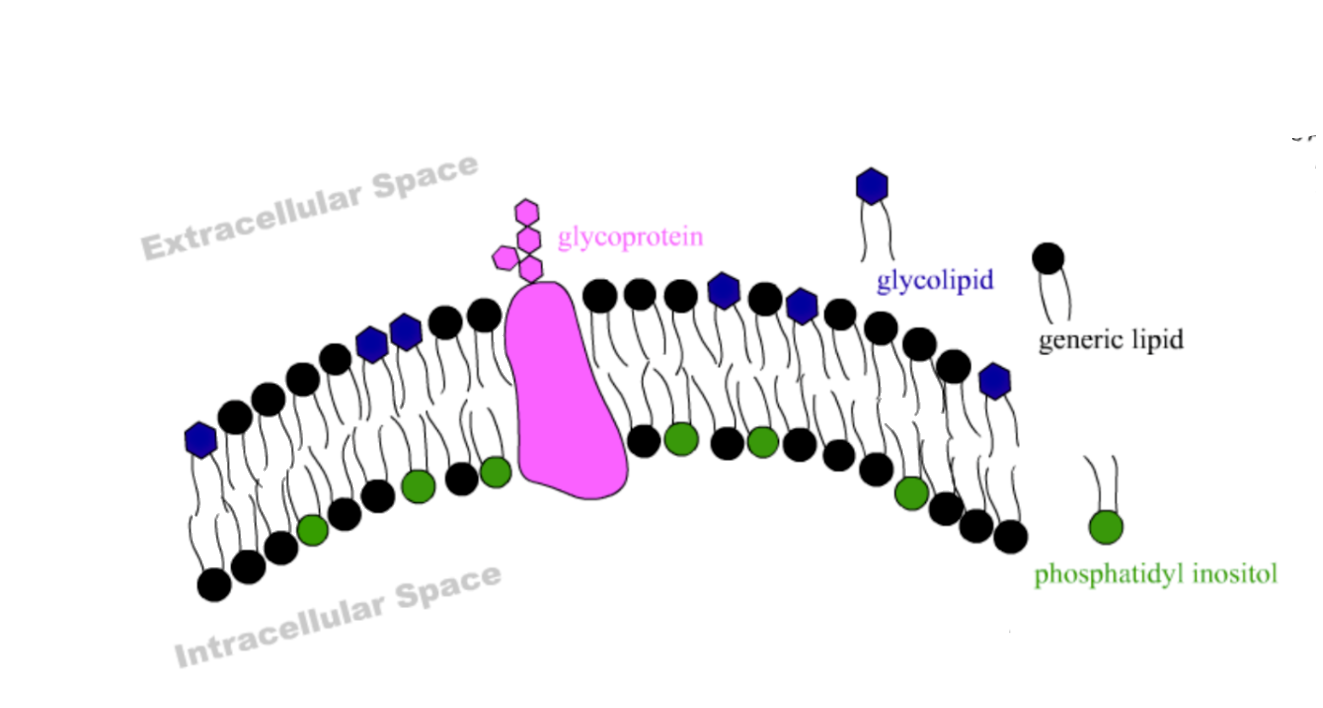
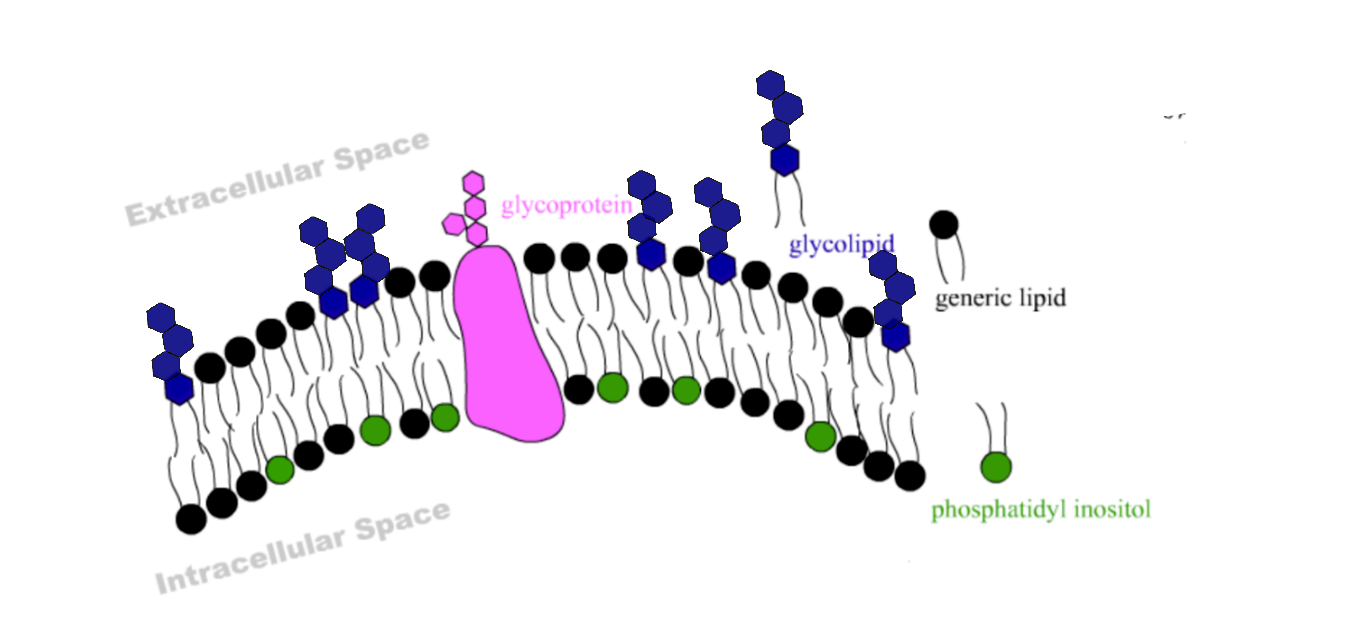
work on membranefluidity2

Changed region(s): [[0.093, 0.0892, 0.9607, 0.9515], [0.8057, 0.6541, 0.8677, 0.6839]]

diff --git a/website/src/membranelipids/membranefluidity2.js b/website/src/membranelipids/membranefluidity2.js
@@ -1,3 +1,130 @@
+import * as React from "react";
+import { Slider } from "@mui/material";
+
 export function MembraneLipidsMembraneFluidity2() {
-    return <p>placeholder</p>;
+  const [tempValue, setTempValue] = React.useState(0);
+  const [tailValue, setTailValue] = React.useState(0);
+  const [unsaturationValue, setUnsaturationValue] = React.useState(0);
+  const [outputValue, setOutputValue] = React.useState(0);
+
+  const handleTempChange = (event, newValue) => {
+    setTempValue(newValue);
+    setOutputValue((newValue - tailValue + unsaturationValue) / 3);
+  };
+
+  const handleTailChange = (event, newValue) => {
+    setTailValue(newValue);
+    setOutputValue((tempValue - newValue + unsaturationValue) / 3);
+  };
+
+  const handleUnsaturationChange = (event, newValue) => {
+    setUnsaturationValue(newValue);
+    setOutputValue((tempValue - tailValue + newValue) / 3);
+  };
+
+  function valuetext(value) {
+    return `${value}°C`;
+  }
+
+  return (
+    <div>
+      <div style={{ maxWidth: "200px" }}>
+        <div style={{ display: "flex", justifyContent: "center" }}>
+          <h2>Fluidity-O-Meter</h2>
+        </div>
+        <Slider
+          aria-label="Fluidity-O-Meter"
+          value={outputValue}
+          getAriaValueText={valuetext}
+          step={0.01}
+          min={-1}
+          max={1}
+          marks={[
+            {
+              value: -1,
+              label: "Less Fluidity",
+            },
+            {
+              value: 1,
+              label: "More Fluidity",
+            },
+          ]}
+          style={{ color: "black" }}
+          disabled
+        />
+        <div style={{ display: "flex", justifyContent: "center" }}>
+          <p>Temperature</p>
+        </div>
+        <Slider
+          aria-label="Temperature"
+          value={tempValue}
+          onChange={handleTempChange}
+          getAriaValueText={valuetext}
+          step={0.01}
+          min={-1}
+          max={1}
+          marks={[
+            {
+              value: -1,
+              label: "Low",
+            },
+            {
+              value: 1,
+              label: "High",
+            },
+          ]}
+          style={{ color: "black" }}
+          size="small"
+        />
+        <div style={{ display: "flex", justifyContent: "center" }}>
+          <p>Lipid Tail Length</p>
+        </div>
+        <Slider
+          aria-label="Lipid Tail Length"
+          value={tailValue}
+          onChange={handleTailChange}
+          getAriaValueText={valuetext}
+          step={0.01}
+          min={-1}
+          max={1}
+          marks={[
+            {
+              value: -1,
+              label: "Low",
+            },
+            {
+              value: 1,
+              label: "High",
+            },
+          ]}
+          style={{ color: "black" }}
+          size="small"
+        />
+        <div style={{ display: "flex", justifyContent: "center" }}>
+          <p>Degree of Unsaturation</p>
+        </div>
+        <Slider
+          aria-label="Degree of Unsaturation"
+          value={unsaturationValue}
+          onChange={handleUnsaturationChange}
+          getAriaValueText={valuetext}
+          step={0.01}
+          min={-1}
+          max={1}
+          marks={[
+            {
+              value: -1,
+              label: "Low",
+            },
+            {
+              value: 1,
+              label: "High",
+            },
+          ]}
+          style={{ color: "black" }}
+          size="small"
+        />
+      </div>
+    </div>
+  );
 }
